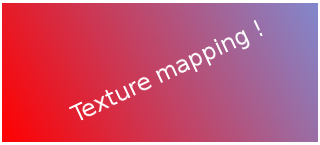
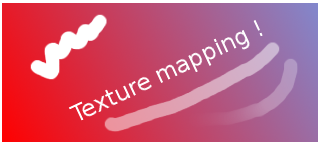
SLG: added support for alpha channel in texture maps

Changed region(s): [[0.3125, 0.2759, 0.875, 0.9103], [0.0938, 0.0828, 0.3438, 0.5517], [0.75, 0.4138, 0.9375, 0.8276]]

diff --git a/samples/smallluxgpu/texmap.cpp b/samples/smallluxgpu/texmap.cpp
@@ -56,6 +56,7 @@ TextureMap::TextureMap(const string &fileName) {
 				pixels[idx].b = img[y][x].b;
 			}
 		}
+		alpha = NULL;
 	} else {
 		// Load the png file
 		cerr << "Reading PNG texture map: " << fileName << endl;
@@ -80,38 +81,76 @@ TextureMap::TextureMap(const string &fileName) {
 
 		width = info->width;
 		height = info->height;
-		cerr << "PNG texture map size: " << width << "x" << height << " (" <<
-				width * height * sizeof(Spectrum) / 1024 << "Kbytes)" << endl;
 
-		if (info->color_type != PNG_COLOR_TYPE_RGB)
-			throw runtime_error("Texture map PNG file must be in RGB format");
+		if (info->color_type == PNG_COLOR_TYPE_RGB) {
+			// RGB PNG file
+			cerr << "PNG RGB texture map size: " << width << "x" << height << " (" <<
+					width * height * sizeof(Spectrum) / 1024 << "Kbytes)" << endl;
 
-		png_read_update_info(png, info);
+			png_read_update_info(png, info);
 
-		png_bytep *byteImage = new png_bytep[sizeof(png_bytep) * height];
-		for (unsigned int y = 0; y < height; y++)
-			byteImage[y] = new png_byte[info->rowbytes];
+			png_bytep *byteImage = new png_bytep[sizeof(png_bytep) * height];
+			for (unsigned int y = 0; y < height; y++)
+				byteImage[y] = new png_byte[info->rowbytes];
 
-		png_read_image(png, byteImage);
-		fclose(file);
+			png_read_image(png, byteImage);
+			fclose(file);
 
-		pixels = new Spectrum[width * height];
-		for (unsigned int y = 0; y < height; y++) {
-			const png_byte *row = byteImage[y];
+			pixels = new Spectrum[width * height];
+			for (unsigned int y = 0; y < height; y++) {
+				const png_byte *row = byteImage[y];
 
-			for (unsigned int x = 0; x < width; x++) {
-				size_t idx = width * y + x;
-				const png_byte *ptr = &(row[x * 3]);
+				for (unsigned int x = 0; x < width; x++) {
+					size_t idx = width * y + x;
+					const png_byte *ptr = &(row[x * 3]);
 
-				pixels[idx].r = ptr[0] / 255.0f;
-				pixels[idx].g = ptr[1] / 255.0f;
-				pixels[idx].b = ptr[2] / 255.0f;
+					pixels[idx].r = ptr[0] / 255.f;
+					pixels[idx].g = ptr[1] / 255.f;
+					pixels[idx].b = ptr[2] / 255.f;
+				}
 			}
-		}
+			
+			for (unsigned int y = 0; y < height; y++)
+				delete[] byteImage[y];
+			delete[] byteImage;
 
-		for (unsigned int y = 0; y < height; y++)
-			delete[] byteImage[y];
-		delete[] byteImage;
+			alpha = NULL;
+		} else if (info->color_type == PNG_COLOR_TYPE_RGBA) {
+			// RGBA PNG file
+			cerr << "PNG RGBA texture map size: " << width << "x" << height << " (" <<
+					width * height * (sizeof(Spectrum) + sizeof(float)) / 1024 << "Kbytes)" << endl;
+
+			png_read_update_info(png, info);
+
+			png_bytep *byteImage = new png_bytep[sizeof(png_bytep) * height];
+			for (unsigned int y = 0; y < height; y++)
+				byteImage[y] = new png_byte[info->rowbytes];
+
+			png_read_image(png, byteImage);
+			fclose(file);
+
+			const unsigned int pixelCount = width * height;
+			pixels = new Spectrum[pixelCount];
+			alpha = new float[pixelCount];
+			for (unsigned int y = 0; y < height; y++) {
+				const png_byte *row = byteImage[y];
+
+				for (unsigned int x = 0; x < width; x++) {
+					size_t idx = width * y + x;
+					const png_byte *ptr = &(row[x * 4]);
+
+					pixels[idx].r = ptr[0] / 255.f;
+					pixels[idx].g = ptr[1] / 255.f;
+					pixels[idx].b = ptr[2] / 255.f;
+					alpha [idx] = ptr[3] / 255.f;
+				}
+			}
+
+			for (unsigned int y = 0; y < height; y++)
+				delete[] byteImage[y];
+			delete[] byteImage;
+		} else
+			throw runtime_error("Texture map PNG file must be in RGB format");
 	}
 
 	DuDv.u = 1.f / width;
@@ -120,6 +159,7 @@ TextureMap::TextureMap(const string &fileName) {
 
 TextureMap::TextureMap(Spectrum *cols, const unsigned int w, const unsigned int h) {
 	pixels = cols;
+	alpha = NULL;
 	width = w;
 	height = h;
 
@@ -129,6 +169,7 @@ TextureMap::TextureMap(Spectrum *cols, const unsigned int w, const unsigned int 
 
 TextureMap::~TextureMap() {
 	delete[] pixels;
+	delete[] alpha;
 }
 
 TextureMapCache::TextureMapCache() {

diff --git a/samples/smallluxgpu/texmap.h b/samples/smallluxgpu/texmap.h
@@ -51,6 +51,28 @@ public:
 				ds * dt * GetTexel(s0 + 1, t0 + 1);
 	}
 
+	const bool HasAlpha() const { return alpha != NULL; }
+	float GetAlpha(const UV &uv) const {
+		assert (alpha != NULL);
+
+		const float s = uv.u * width - 0.5f;
+		const float t = uv.v * height - 0.5f;
+
+		const int s0 = Floor2Int(s);
+		const int t0 = Floor2Int(t);
+
+		const float ds = s - s0;
+		const float dt = t - t0;
+
+		const float ids = 1.f - ds;
+		const float idt = 1.f - dt;
+
+		return ids * idt * GetAlphaTexel(s0, t0) +
+				ids * dt * GetAlphaTexel(s0, t0 + 1) +
+				ds * idt * GetAlphaTexel(s0 + 1, t0) +
+				ds * dt * GetAlphaTexel(s0 + 1, t0 + 1);
+	}
+
 	const UV &GetDuDv() const {
 		return DuDv;
 	}
@@ -70,8 +92,20 @@ private:
 		return pixels[index];
 	}
 
+	const float &GetAlphaTexel(const unsigned int s, const unsigned int t) const {
+		const unsigned int u = Mod(s, width);
+		const unsigned int v = Mod(t, height);
+
+		const unsigned index = v * width + u;
+		assert (index >= 0);
+		assert (index < width * height);
+
+		return alpha[index];
+	}
+
 	unsigned int width, height;
 	Spectrum *pixels;
+	float *alpha;
 	UV DuDv;
 };
 

diff --git a/samples/smallluxgpu/path.h b/samples/smallluxgpu/path.h
@@ -206,6 +206,28 @@ public:
 			if (tm)	{
 				// Apply texture mapping
 				surfaceColor *= tm->GetColor(triUV);
+
+				// Check if the texture map has an alpha channel
+				if (tm->HasAlpha()) {
+					const float alpha = tm->GetAlpha(triUV);
+
+					if (alpha == 0.0f) {
+						// Totally transparent
+						pathRay.o = pathRay(rayHit->t + RAY_EPSILON);
+						state = NEXT_VERTEX;
+						tracedShadowRayCount = 0;
+						return;
+					} else if (alpha < 1.f) {
+						// Partially transparent
+						if (sample.GetLazyValue() > alpha) {
+							// Go throught
+							pathRay = Ray(pathRay(rayHit->t + RAY_EPSILON), pathRay.d);
+							state = NEXT_VERTEX;
+							tracedShadowRayCount = 0;
+							return;
+						}
+					}
+				}
 			}
 
 			// Check if there is an assigned bump map
